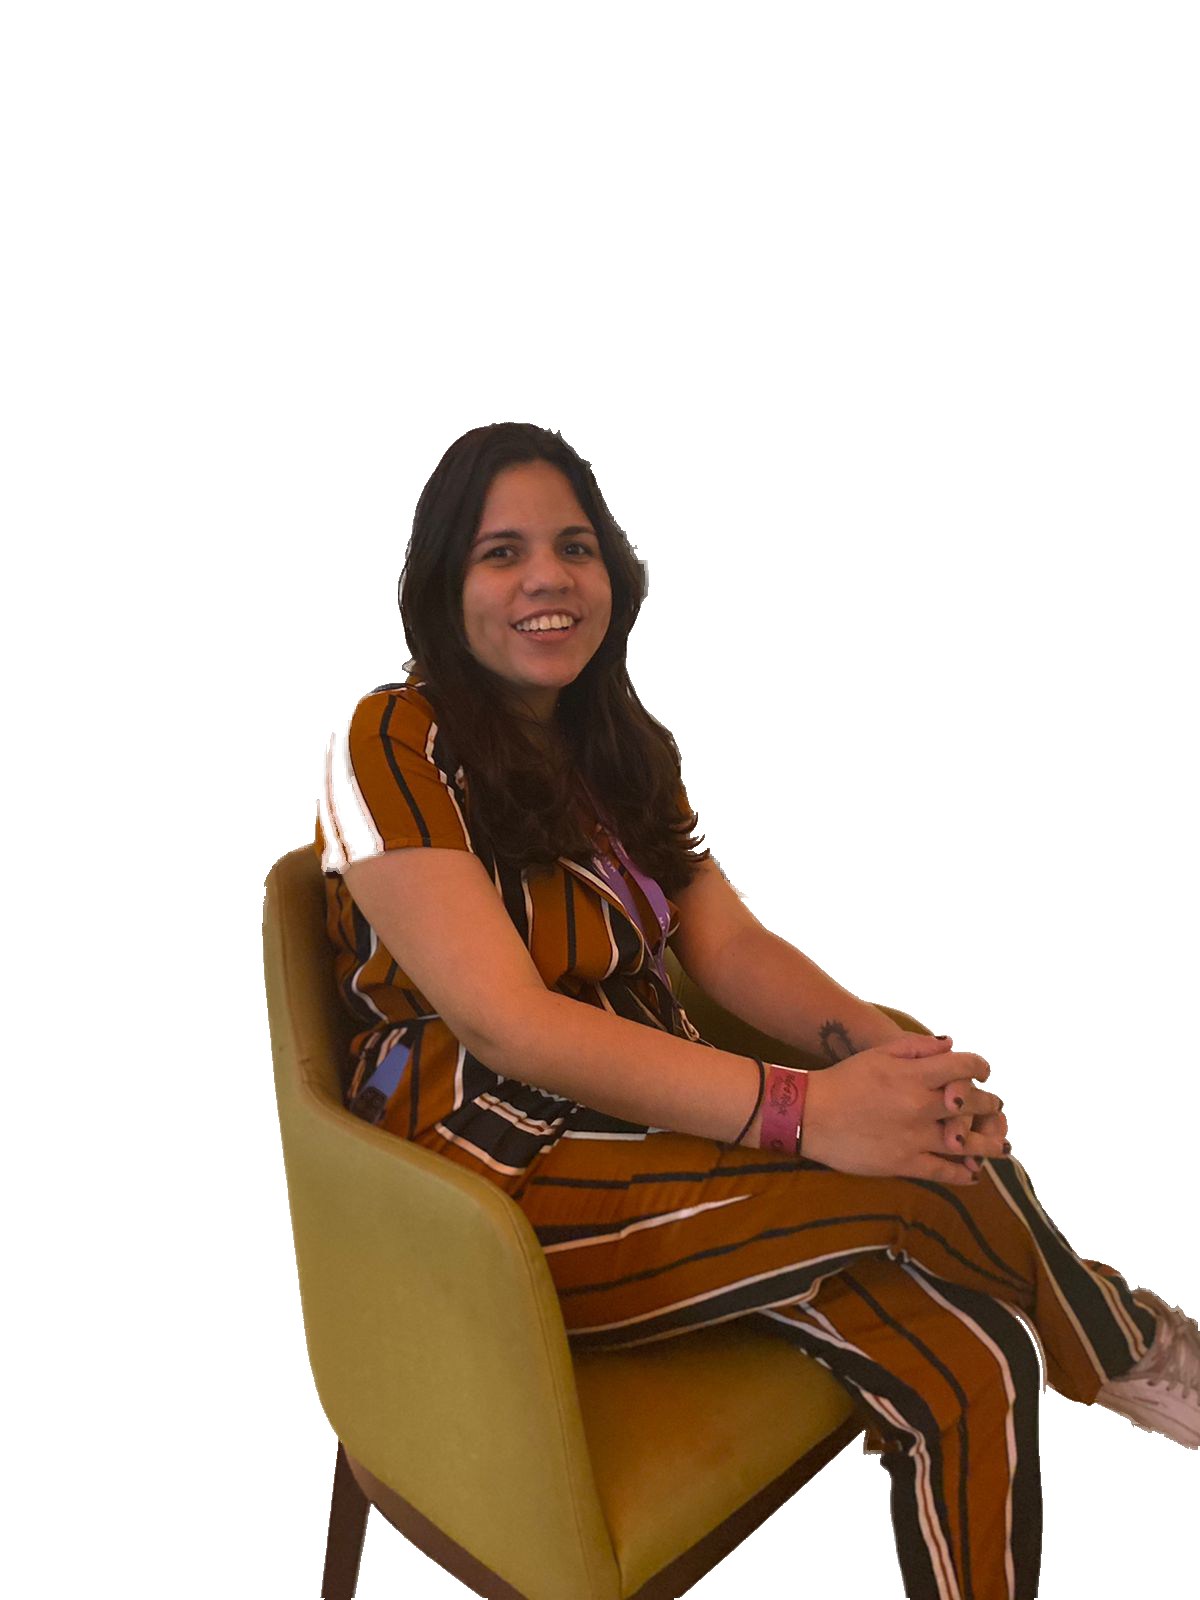
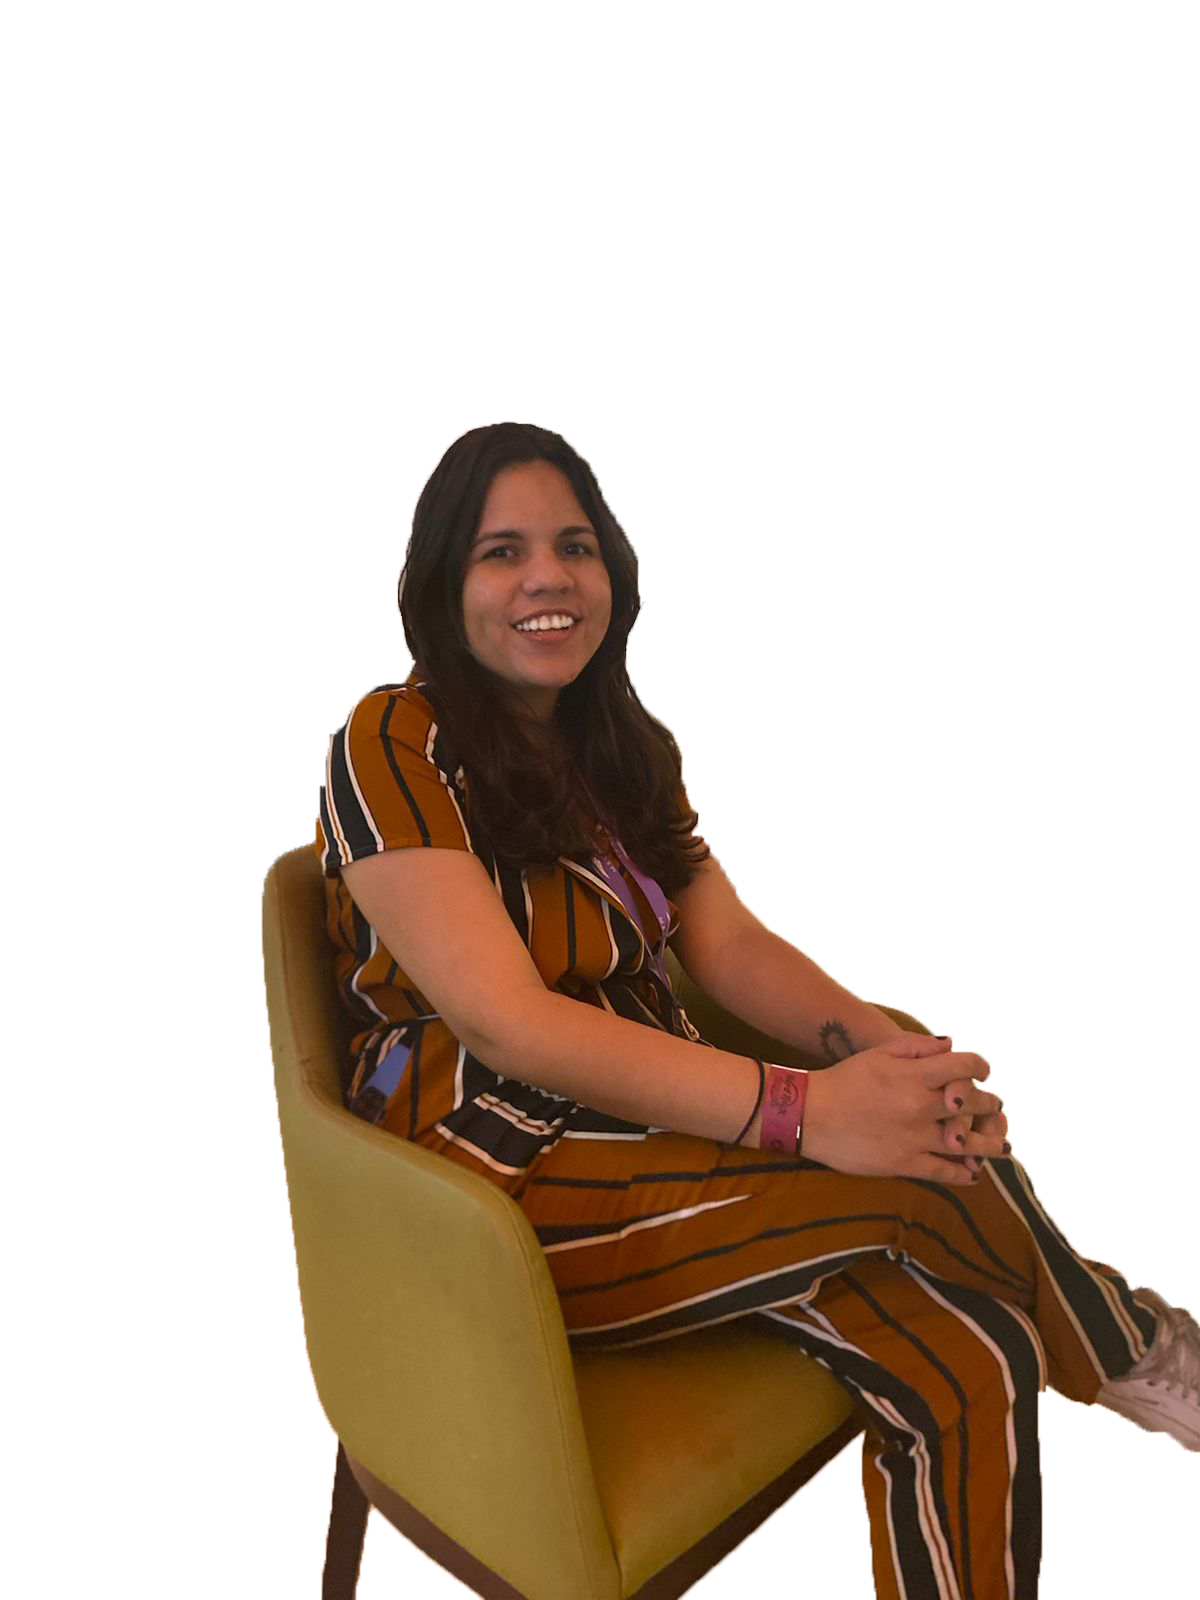
Fade in left added

diff --git a/src/components/About.jsx b/src/components/About.jsx
@@ -1,23 +1,18 @@
-import React from 'react'
+import React from "react";
 import AboutMe from "../assets/Aboutme.png";
-import { motion } from "framer-motion";
 import Typed from "react-typed";
 
 function About() {
   return (
     <div className="w-full bg-white py-8 px-4 font-sans">
-      <div className="max-w-[1240px] mx-auto grid md:grid-cols-2 relative">
-        <motion.img
-          initial={{ opacity: 0 }}
-          animate={{
-            opacity: 1,
-            transition: { type: "easeIn", duration: "2", delay:".5"},
-          }}
-          exit={{ opacity: 0 }}
-          className="w-[500px] mx-auto rounded-full transition-all duration-500 bg-gradient-to-t to-picton-blue via-amber from-vermillion bg-size-200 bg-pos-0 hover:bg-pos-100"
-          src={AboutMe}
-          alt="/"
-        ></motion.img>
+      <div className="max-w-[1240px] mx-auto grid md:grid-cols-2">
+        <div className="animate-fade-in">
+          <img
+            className="w-[500px] mx-auto rounded-full transition-all duration-500 bg-gradient-to-t to-picton-blue via-amber from-vermillion bg-size-200 bg-pos-0 hover:bg-pos-100  z-10"
+            src={AboutMe}
+            alt="/"
+          ></img>
+        </div>
         <div className="flex flex-col justify-center">
           <p className="text-picton-blue font-bold ">01. ABOUT ME</p>
           <h1 className="text-yellow-green md:text-4xl sm:text-3xl text-2xl font-bold py-2">
@@ -35,19 +30,30 @@ function About() {
               typeSpeed={40}
             />
           </h1>
-          <p className="py-2">
-            Hello! My name is Ayesha and I enjoy creating things that live on
-            the internet. My interest in web development started back in 2012
-            when I decided to try editing custom Tumblr themes — turns out
-            hacking together a custom reblog button taught me a lot about HTML &
-            CSS!
+          <p className="py-2 text-justify">
+            Hello and welcome to my personal portfolio! My name is Ayesha, and I
+            am a passionate web developer with a focus on creating beautiful,
+            functional, and user-friendly websites.
           </p>
-          <p>
-            Fast-forward to today, and I’ve had the privilege of working at an
-            advertising agency, a start-up, a huge corporation, and a
-            student-led design studio. My main focus these days is building
-            accessible, inclusive products and digital experiences at
-            Upstatement for a variety of clients.
+          <p className="py-2 text-justify">
+            I began my journey as a web developer by studying computer science
+            in college, where I learned the fundamentals of programming,
+            algorithms, and data structures. I then went on to hone my skills
+            through a combination of self-study and real-world experience,
+            working on a variety of projects ranging from small personal
+            websites to large e-commerce platforms.
+          </p>
+          <p className="py-2 text-justify">
+            Today, I am proud to say that I have a wealth of experience in web
+            development, including proficiency in a range of programming
+            languages and frameworks such as HTML, CSS, JavaScript, React, and
+            Node.js. I am also highly skilled in user experience design,
+            information architecture, and project management. But perhaps most
+            importantly, I am passionate about using my skills to make a
+            positive impact on the world. Whether it's through creating a
+            website for a small business owner or developing an application that
+            improves people's lives, I am driven by the belief that technology
+            can be a force for good.
           </p>
           <button className="bg-eerie-black text-amber w-[200px] rounded-md font-medium my-6 mx-auto md:mx-0 py-3 hover:animate-pulse">
             Download CV
@@ -58,4 +64,4 @@ function About() {
   );
 }
 
-export default About
+export default About;

diff --git a/src/index.css b/src/index.css
@@ -10,3 +10,18 @@
    }
 
 }
+@keyframes fade-in {
+   0% {
+     opacity: 0;
+     transform: translateX(-200px);
+   }
+   100% {
+     opacity: 1;
+     transform: translateX(0);
+   }
+ }
+ 
+ .animate-fade-in {
+   animation-name: fade-in;
+   animation-duration: 2s;
+ }
